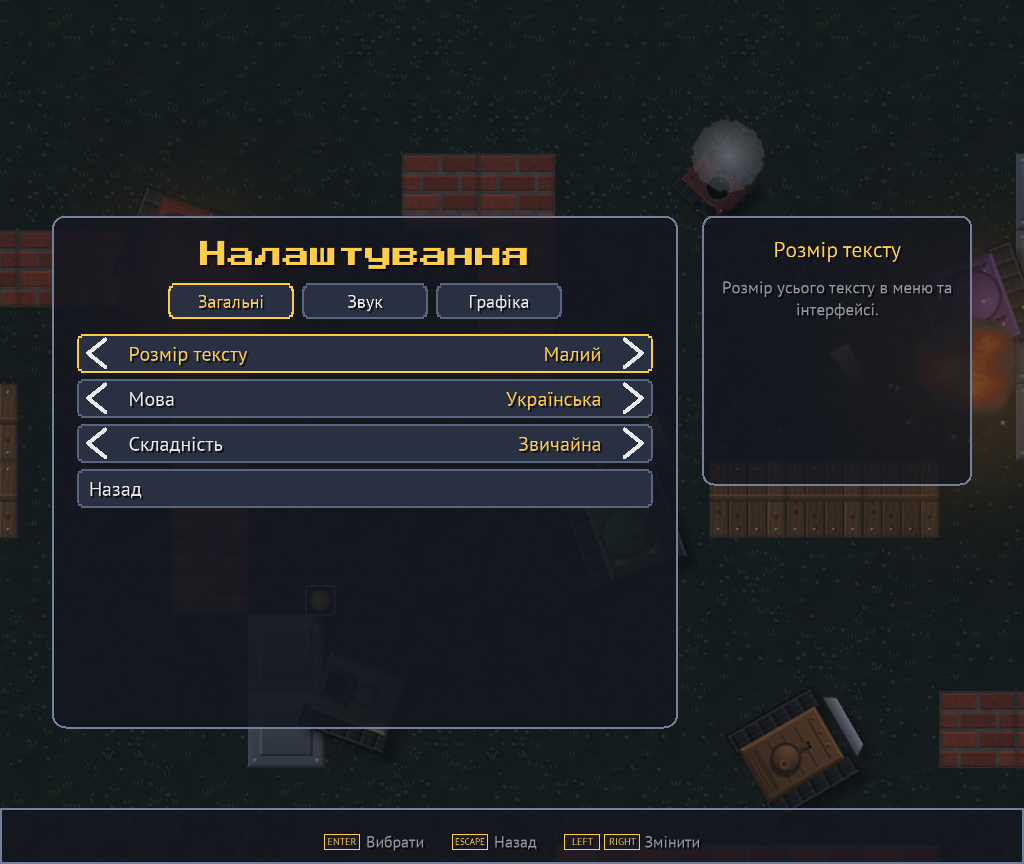
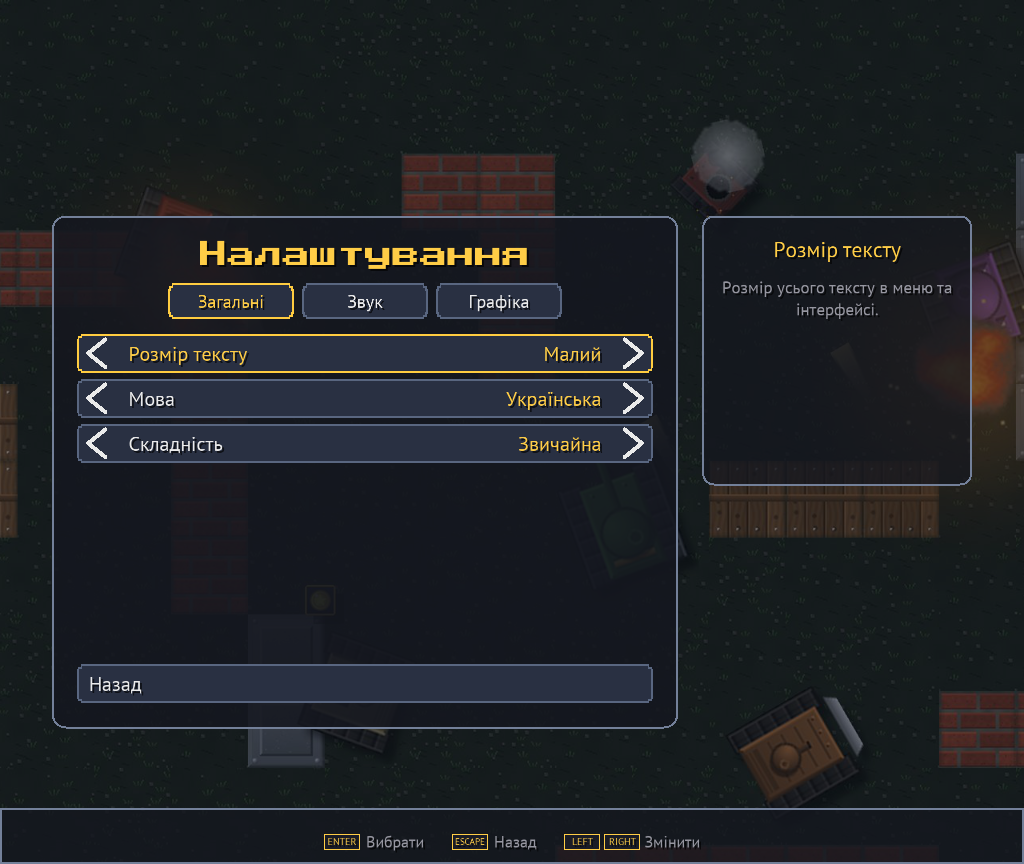
Settings: Back pinned to the bottom of the panel

Changed region(s): [[0.0625, 0.75, 0.6562, 0.8125], [0.0625, 0.5312, 0.6562, 0.5938]]

diff --git a/TanksClone/Classes/ui/SettingsPanel.cpp b/TanksClone/Classes/ui/SettingsPanel.cpp
@@ -352,6 +352,7 @@ void SettingsPanel::ShowTab(const int InIndex)
 	GCurrentTab = TabIds[static_cast<size_t>((InIndex + Count) % Count)];
 	Panel->FindWidget("tabs")->RemoveAppendedNodes();
 	Panel->FindWidget("buttons")->RemoveAppendedNodes();
+	Panel->FindWidget("footer")->RemoveAppendedNodes();
 	List->Clear();
 	Entries.Clear();
 	TextureButton = nullptr;
@@ -374,7 +375,7 @@ void SettingsPanel::AddEntry(const MenuEntry& InEntry)
 		NewButton->SetSlide(InEntry.Slide);
 	}
 	ShowFill(*NewButton, *InEntry.Item);
-	Panel->FindWidget("buttons")->AppendNode(NewButton);
+	Panel->FindWidget(InEntry.Item->Container.empty() ? "buttons" : InEntry.Item->Container)->AppendNode(NewButton);
 	List->AddButton(NewButton);
 	Entries.PushBack({ NewButton, *InEntry.Item });
 	if ( InEntry.Item->Id == "textures" )
